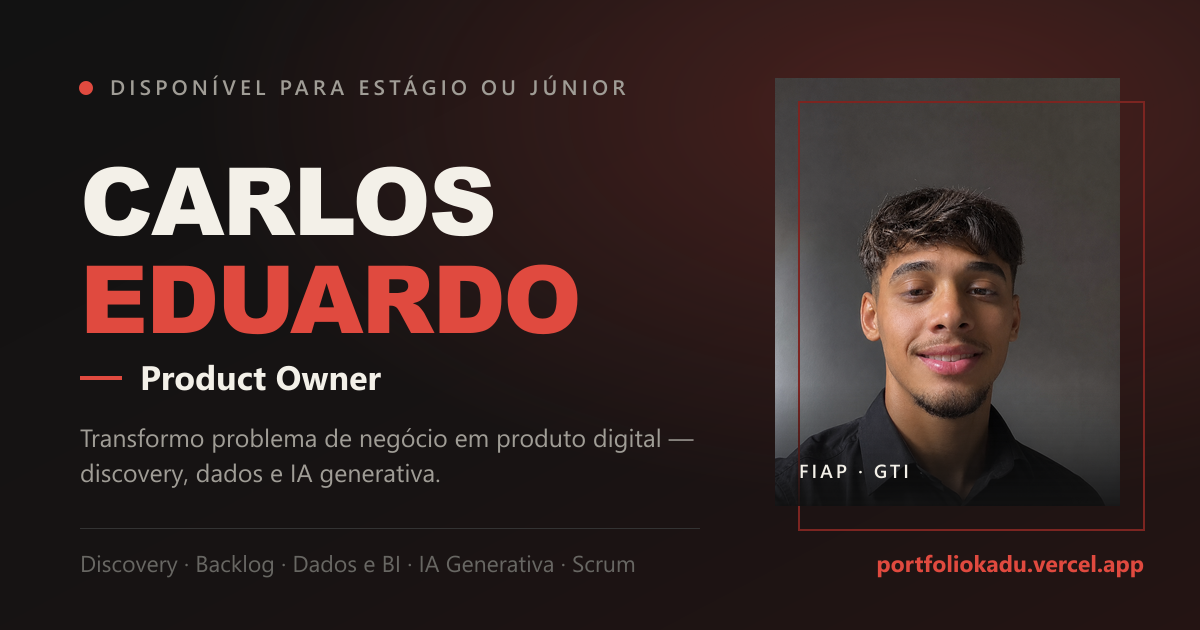
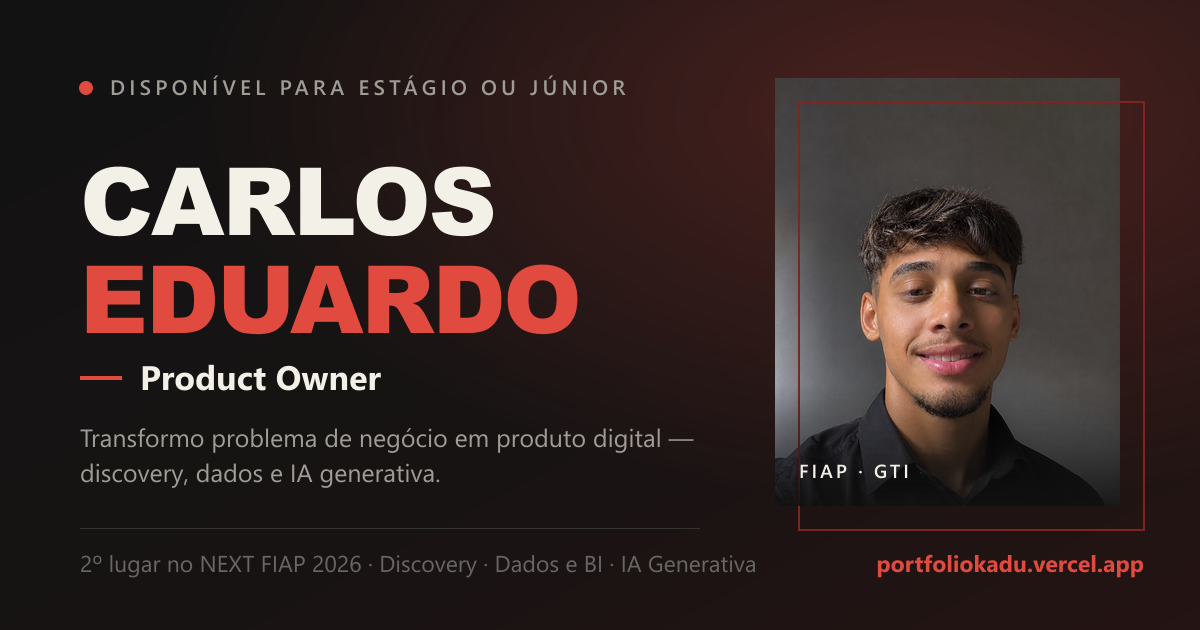
feat: registra o 2o lugar no NEXT FIAP 2026
Era so "finalista" em todo lugar. O resultado entra nos quatro pontos
onde a conquista aparece, nos dois idiomas:

- regua de numeros do hero: "2o lugar · NEXT FIAP 2026" no lugar de
  "Finalista", por ser a leitura mais forte em menos espaco;
- frase de abertura e card de destaque: finalista e 2o lugar, porque
  ele pediu as duas coisas;
- overview e resultado do case do CEAP Connect.

A imagem de Open Graph tambem foi regerada: a linha de baixo passa a
abrir com o 2o lugar — e o card dela que aparece quando o link e
compartilhado no LinkedIn.

Changed region(s): [[0.0617, 0.8746, 0.6167, 0.9349]]

diff --git a/src/data/en.ts b/src/data/en.ts
@@ -53,7 +53,7 @@ export const enProfile = {
   headlineTail: 'Not just a screen.',
 
   intro:
-    'I was the Product Owner and developer of CEAP Connect, my team project and a finalist at NEXT FIAP 2026. I find the problem, analyse the data, turn the need into requirements and drive the build with AI until the product ships.',
+    'I was the Product Owner and developer of CEAP Connect, my team project and a finalist at NEXT FIAP 2026, where we placed 2nd. I find the problem, analyse the data, turn the need into requirements and drive the build with AI until the product ships.',
 
   education: [
     {
@@ -97,7 +97,7 @@ export const enProofs: Proof[] = [
   {
     id: 'next',
     index: '01',
-    label: 'Finalist at NEXT FIAP 2026',
+    label: 'Finalist and 2nd place at NEXT FIAP 2026',
     body: 'Product Owner and developer of CEAP Connect, my team project: product vision, backlog prioritisation and development.',
   },
   {
@@ -297,7 +297,7 @@ export const enProjects: Project[] = [
     role: 'Product Owner · Discovery · Building with AI',
     featured: true,
     overview:
-      'A FIAP Challenge project, my team’s entry and a finalist at NEXT FIAP 2026. A live web platform that follows candidates at CEAP — a free technical school for young people — from application to the result of the selection process.',
+      'A FIAP Challenge project, my team’s entry and a finalist at NEXT FIAP 2026 — we placed 2nd. A live web platform that follows candidates at CEAP — a free technical school for young people — from application to the result of the selection process.',
     challenge:
       'Candidates disappear halfway through the selection process. The coordination team only finds out when the exam room has fewer people than the list of applicants, and by then there is nothing left to do. What was missing was seeing who was at risk while there was still time to act.',
     solution:
@@ -325,7 +325,7 @@ export const enProjects: Project[] = [
       { value: '141', label: 'automated tests' },
     ],
     results: [
-      'Finalist at NEXT FIAP 2026 — a team project, with my role as Product Owner and developer.',
+      'Finalist and 2nd place at NEXT FIAP 2026 — a team project, with my role as Product Owner and developer.',
       'Presented to the Director of CEAP, who approved taking the project forward and referred it to the IT Coordination team.',
       'The numbers above describe the funnel I analysed to prioritise the backlog. They are not a measured reduction in drop-off.',
     ],

diff --git a/src/data/ui.ts b/src/data/ui.ts
@@ -25,7 +25,7 @@ export const ptUI = {
     /** Índice da linha que recebe o accent. */
     headlineAccent: 2,
     intro:
-      'Fui Product Owner e desenvolvedor do CEAP Connect, projeto da minha equipe finalista do NEXT FIAP 2026. Identifico o problema, analiso os dados, traduzo a necessidade em requisito e conduzo a construção com IA até o produto publicado.',
+      'Fui Product Owner e desenvolvedor do CEAP Connect, projeto da minha equipe finalista do NEXT FIAP 2026, onde ficamos em 2º lugar. Identifico o problema, analiso os dados, traduzo a necessidade em requisito e conduzo a construção com IA até o produto publicado.',
     available: 'Buscando estágio ou posição júnior',
     viewProjects: 'Ver projetos',
     downloadCv: 'Baixar CV',
@@ -33,7 +33,7 @@ export const ptUI = {
     viewCase: 'Ver case',
     contactsLabel: 'Contato',
     stats: [
-      { v: 'Finalista', l: 'NEXT FIAP 2026' },
+      { v: '2º lugar', l: 'NEXT FIAP 2026' },
       { v: '5', l: 'produtos de ponta a ponta' },
       { v: '8,0+', l: 'média em GTI' },
     ],
@@ -174,7 +174,7 @@ export const enUI: UIStrings = {
     headline: ['A business', 'problem', 'becomes a product.'],
     headlineAccent: 2,
     intro:
-      'I was the Product Owner and developer of CEAP Connect, my team project and a finalist at NEXT FIAP 2026. I find the problem, analyse the data, turn the need into requirements and drive the build with AI until the product ships.',
+      'I was the Product Owner and developer of CEAP Connect, my team project and a finalist at NEXT FIAP 2026, where we placed 2nd. I find the problem, analyse the data, turn the need into requirements and drive the build with AI until the product ships.',
     available: 'Looking for an internship or junior role',
     viewProjects: 'View work',
     downloadCv: 'Download CV',
@@ -182,7 +182,7 @@ export const enUI: UIStrings = {
     viewCase: 'View case',
     contactsLabel: 'Contact',
     stats: [
-      { v: 'Finalist', l: 'NEXT FIAP 2026' },
+      { v: '2nd place', l: 'NEXT FIAP 2026' },
       { v: '5', l: 'products end to end' },
       { v: '8.0+', l: 'GPA in IT Management' },
     ],

diff --git a/src/data/projects.ts b/src/data/projects.ts
@@ -21,7 +21,7 @@ export const projects: Project[] = [
     role: 'Product Owner · Discovery · Construção com IA',
     featured: true,
     overview:
-      'Challenge FIAP, projeto da minha equipe finalista do NEXT FIAP 2026. Plataforma web publicada que acompanha o candidato do CEAP — escola técnica gratuita para jovens — da inscrição ao resultado do processo seletivo.',
+      'Challenge FIAP, projeto da minha equipe finalista do NEXT FIAP 2026 — ficamos em 2º lugar. Plataforma web publicada que acompanha o candidato do CEAP — escola técnica gratuita para jovens — da inscrição ao resultado do processo seletivo.',
     challenge:
       'O candidato desaparece no meio do processo seletivo. A coordenação só descobre a desistência quando a sala da prova tem menos gente do que a lista de inscritos, e nessa altura não há mais nada a fazer. Faltava enxergar quem estava em risco enquanto ainda dava tempo de agir.',
     solution:
@@ -49,7 +49,7 @@ export const projects: Project[] = [
       { value: '141', label: 'testes automatizados' },
     ],
     results: [
-      'Finalista do NEXT FIAP 2026 — projeto da equipe, com atuação como Product Owner e desenvolvedor.',
+      'Finalista e 2º lugar no NEXT FIAP 2026 — projeto da equipe, com atuação como Product Owner e desenvolvedor.',
       'Apresentado ao Diretor do CEAP, que aprovou o avanço do projeto e o encaminhou à Coordenação de TI.',
       'Os números acima descrevem o funil que analisei para priorizar o backlog. Não são redução de evasão medida.',
     ],

diff --git a/src/data/profile.ts b/src/data/profile.ts
@@ -20,7 +20,7 @@ export const profile = {
   headlineTail: 'Não apenas tela.',
 
   intro:
-    'Fui Product Owner e desenvolvedor do CEAP Connect, projeto da minha equipe finalista do NEXT FIAP 2026. Identifico o problema, analiso os dados, traduzo a necessidade em requisito e conduzo a construção com IA até o produto publicado.',
+    'Fui Product Owner e desenvolvedor do CEAP Connect, projeto da minha equipe finalista do NEXT FIAP 2026, onde ficamos em 2º lugar. Identifico o problema, analiso os dados, traduzo a necessidade em requisito e conduzo a construção com IA até o produto publicado.',
 
   education: [
     {
@@ -68,7 +68,7 @@ export const proofs: Proof[] = [
   {
     id: 'next',
     index: '01',
-    label: 'Finalista do NEXT FIAP 2026',
+    label: 'Finalista e 2º lugar no NEXT FIAP 2026',
     body: 'Product Owner e desenvolvedor do CEAP Connect, projeto da minha equipe: visão do produto, priorização do backlog e desenvolvimento.',
   },
   {
